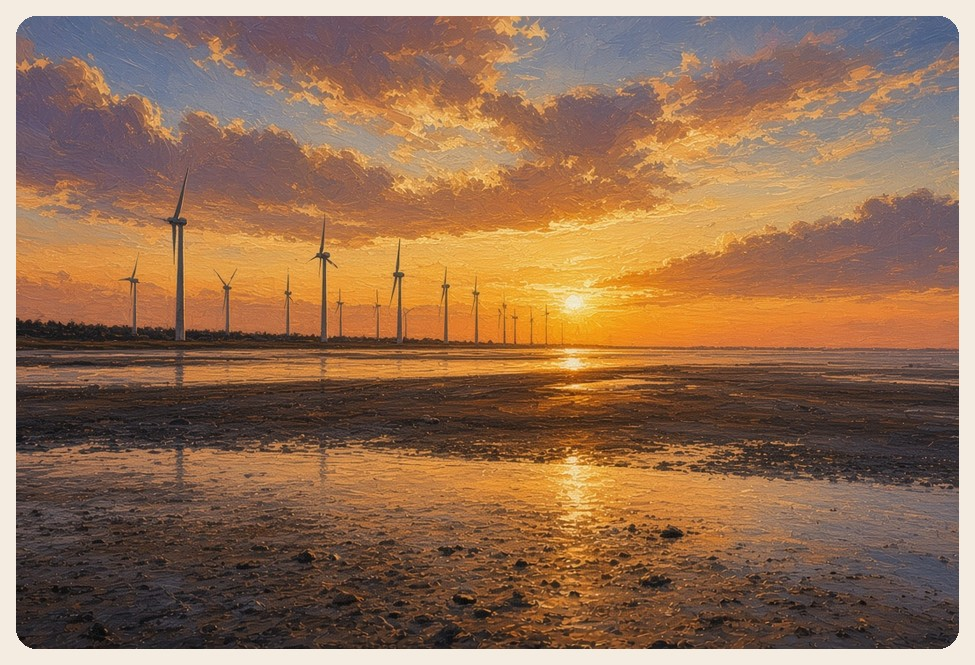
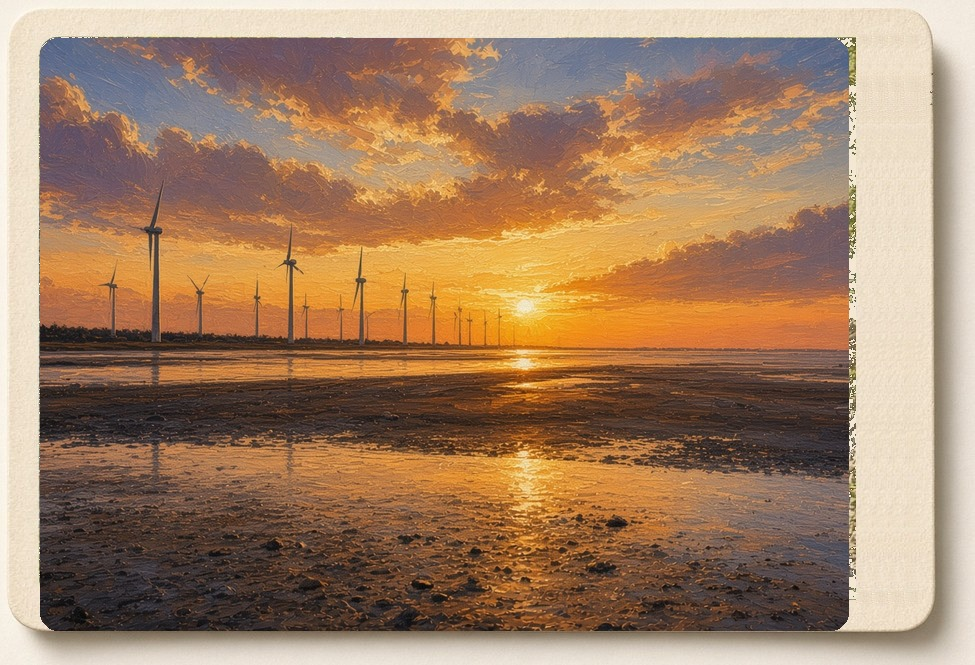
fix: 台灣明信片紙框對齊花蓮和東京
風景收進和花蓮一樣的窗口，奶油紙邊和右上角的郵票、郵戳落在紙上，不壓到畫。

diff --git a/index.html b/index.html
@@ -538,12 +538,12 @@ html.dark .sovstory{box-shadow:none;border:1px solid var(--line)}
 .post-sheet .post-motifs svg{width:5.2cqw;height:5.2cqw;display:block}
 .post-live:not(.post-sheet) .post-datemark{position:absolute;z-index:3;right:3.4%;bottom:1.5%;text-align:right;color:#5c4a3a;font-weight:800;font-size:2.35cqw;line-height:1;letter-spacing:.03em;white-space:nowrap}
 .post-live[data-mark="gorge"] .post-datemark{color:#1b7a4a}
-.post-live[data-mark="taipei"] .post-datemark{color:#9c1c2c}
-.post-live[data-mark="taichung"] .post-datemark{color:#c45a28}
-.post-live[data-mark="tainan"] .post-datemark{color:#8c3a4a}
-.post-live[data-mark="kaohsiung"] .post-datemark{color:#0f4c81}
-.post-live[data-mark="yilan"] .post-datemark{color:#2f6a3a}
-.post-live[data-mark="kenting"] .post-datemark{color:#0e6e78}
+.post-live[data-mark="taipei"] .post-datemark{color:#9c1c2c;bottom:.4%;font-size:2cqw}
+.post-live[data-mark="taichung"] .post-datemark{color:#c45a28;bottom:.4%;font-size:2cqw}
+.post-live[data-mark="tainan"] .post-datemark{color:#8c3a4a;bottom:.4%;font-size:2cqw}
+.post-live[data-mark="kaohsiung"] .post-datemark{color:#0f4c81;bottom:.4%;font-size:2cqw}
+.post-live[data-mark="yilan"] .post-datemark{color:#2f6a3a;bottom:.4%;font-size:2cqw}
+.post-live[data-mark="kenting"] .post-datemark{color:#0e6e78;bottom:.4%;font-size:2cqw}
 .post-live[data-mark="skytree"] .post-datemark{color:#1e3a5f;bottom:.7%;font-size:2.05cqw}
 .post-live:not(.post-sheet) .post-datemark small{display:inline;margin-left:.45em;font-size:1em;font-weight:800}
 @keyframes sovin{from{opacity:0;transform:translateY(10px)}to{opacity:1;transform:translateY(0)}}
